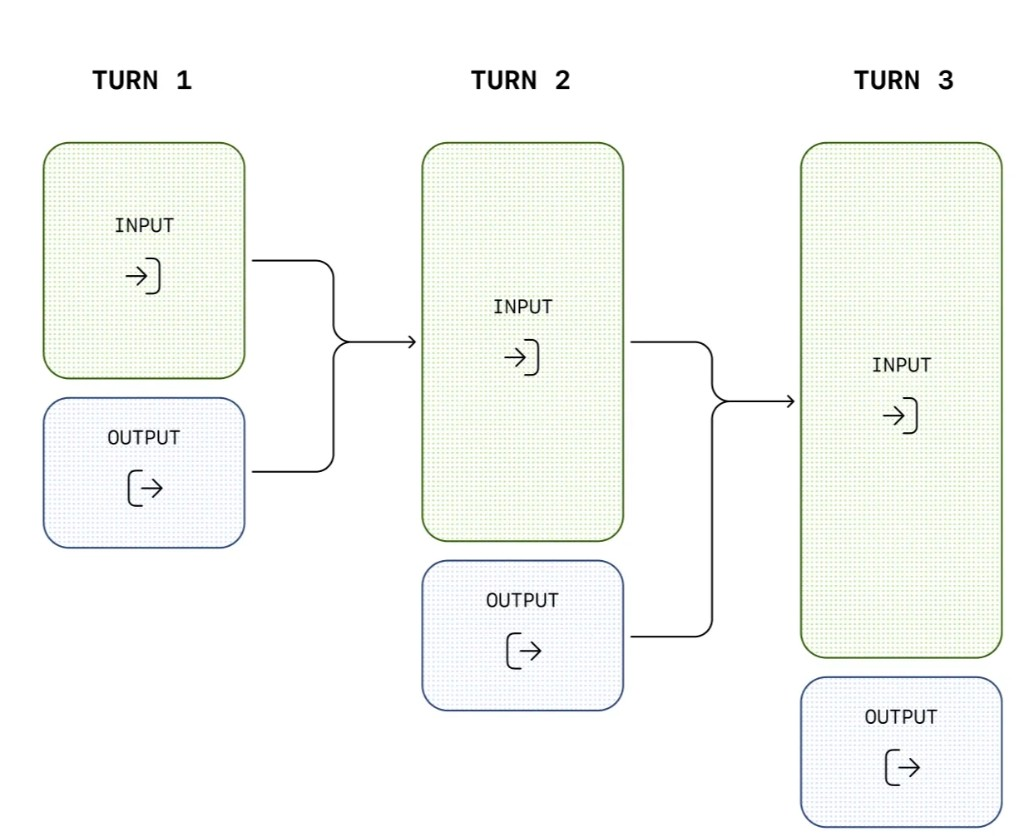
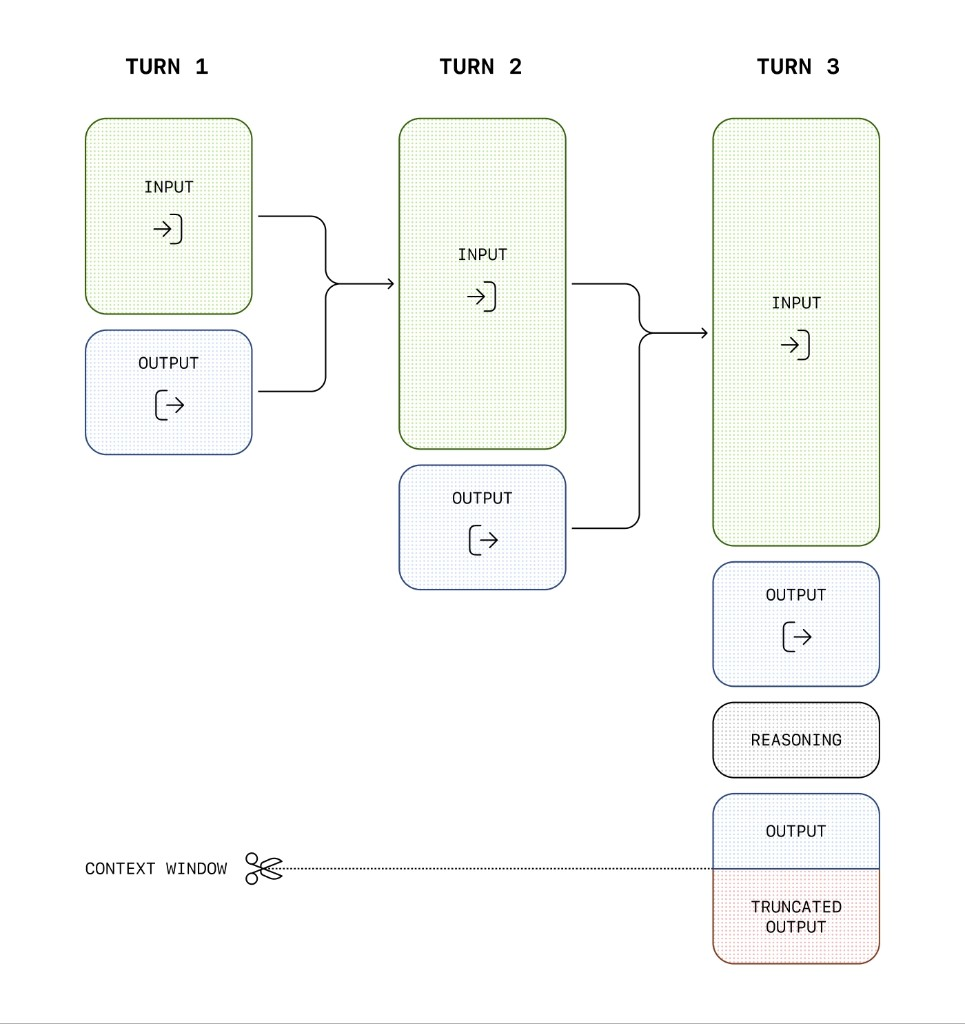
Update AGENTS.md template, rename lesson 0, add memory tips
- AGENTS.md: strengthen "show changes before editing" rule for Co-work
  (user can't see live diffs, so Claude must describe changes first)
- Rename lesson 0 title from "changes everything" to "Why Claude Co-work?"
- Add memory-specific tips to lesson 7 (be specific in AGENTS.md,
  update GOALS.md regularly, use Knowledge/ for reference, link files)
- Replace context window diagram with improved version

Made-with: Cursor

diff --git a/personal-os/07-memory-and-context.md b/personal-os/07-memory-and-context.md
@@ -126,6 +126,16 @@ List the files in their Personal OS folder:
 > "**Tip 3: Don't over-engineer it.** If your Personal OS starts feeling like work, simplify. Drop folders you don't use. Merge files that overlap."
 >
 > "**Tip 4: Share what works.** If you find a workflow or AGENTS.md instruction that's great, share it with the team. These systems get better through collective learning."
+>
+> "And a few tips specifically for better AI memory:"
+>
+> "**Be specific in AGENTS.md.** Vague instructions get vague results. 'Be helpful' does nothing. 'Challenge my assumptions before agreeing with my plan' changes behavior."
+>
+> "**Update GOALS.md regularly.** Stale goals lead to wrong priorities. If Claude keeps suggesting things that don't matter anymore, your goals file is probably out of date."
+>
+> "**Use Knowledge/ for reference.** Don't repeat context in every task. Put it in Knowledge/ once and let Claude find it when it's relevant."
+>
+> "**Link related files.** Help Claude find connections by referencing other files — for example, a task can point to `Knowledge/heartland-qbr-notes.md` for background."
 
 **STOP. Wait for their response.**
 

diff --git a/personal-os/00-intro-cowork.md b/personal-os/00-intro-cowork.md
@@ -1,4 +1,4 @@
-# 0. Why Claude Co-work Changes Everything
+# 0. Why Claude Co-work?
 
 > **Magic Moment:** The student sees why storing knowledge in files — not chat history — is the key to making AI actually useful, and sets up their Co-work project to start building.
 
